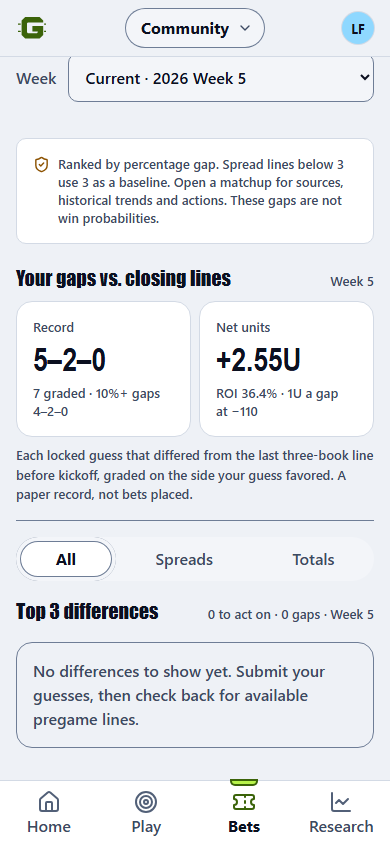
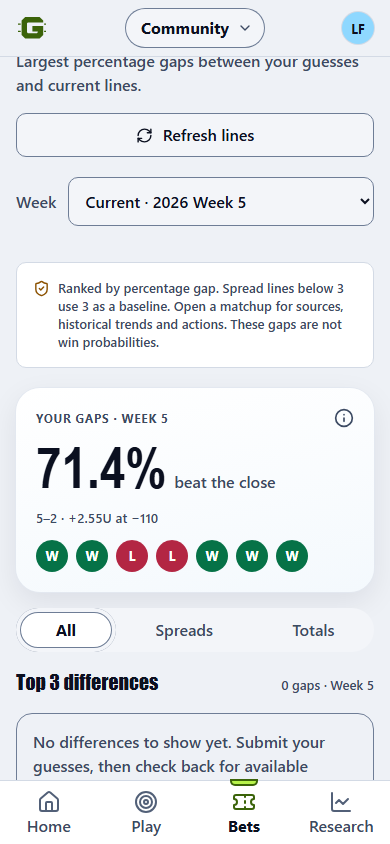
D-77: rebuild the gap card as option 1, the Hit rate hero
Sean called the first build "boring and bad" and picked option 1 from five directions on a
private canvas. The card is now the app's hero card: the share of decided gaps that beat
the closing line (W / (W + L), as D-75), the record and units at -110, and one W/L/P dot
per gap; the fine print and the 10%+ record open from its info button. The list heading
reads "Top 3 to act on" when any row can be acted on. Captures regenerated.

diff --git a/web/src/VirtualUnits.jsx b/web/src/VirtualUnits.jsx
@@ -1,5 +1,5 @@
 import React, { useCallback, useEffect, useMemo, useRef, useState } from 'react';
-import { ArrowDown, ArrowUp, Check, ChevronDown, Circle, CircleCheckBig, Clock3, Eye, Lock, Minus, Plus, RefreshCw, ShieldCheck, TrendingUp } from 'lucide-react';
+import { ArrowDown, ArrowUp, Check, ChevronDown, Circle, CircleCheckBig, Clock3, Eye, Info, Lock, Minus, Plus, RefreshCw, ShieldCheck, TrendingUp } from 'lucide-react';
 import { cloudApi, date, linesApi, signed } from './api';
 import { lockSentence } from './lineLock';
 import { buildRecommendations, gapRecord, recommendationList, recommendationMarket } from '../../shared/recommended-bets.mjs';
@@ -38,18 +38,25 @@ export const BETS_VISIBLE_NOTE = "Coming soon: everyone in the league will see e
 
 function Stat({ label, value, detail }) { return <div className="stat"><span>{label}</span><strong>{value}</strong><small>{detail}</small></div>; }
 
-// D-77 (Sean, November 3, 2026: "Your gaps' paper record"): how the gaps between your locked guesses and the closing
-// lines did this week, whether or not you bet them (shared/recommended-bets.mjs gapRecord). Your own /lines/read only.
+// D-77 (Sean, November 3, 2026: "Your gaps' paper record", then option 1, "Hit rate hero"): one hero card with the share
+// of your decided gaps that beat the closing line (W / (W + L), as D-75's win rate), the record and units, and one dot per
+// graded gap in kickoff order. The fine print opens from its info button. Your own /lines/read only (gapRecord).
+const GAP_WORDS = { win: ['W', 'Win'], loss: ['L', 'Loss'], push: ['P', 'Push'] };
 function GapRecord({ record, week }) {
-  const graded = record.wins + record.losses + record.pushes, waiting = record.notGraded.noFinal + record.notGraded.noLine;
-  const favorable = record.favorable;
-  return <section className="recommended-gap-record" aria-label="Your gaps vs. closing lines">
-    <div className="recommended-list-heading"><h3>Your gaps vs. closing lines</h3><span>Week {week}</span></div>
-    {graded ? <div className="stats-row">
-      <Stat label="Record" value={`${record.wins}–${record.losses}–${record.pushes}`} detail={`${graded} graded · 10%+ gaps ${favorable.wins}–${favorable.losses}–${favorable.pushes}`}/>
-      <Stat label="Net units" value={units(record.netUnits)} detail={`ROI ${record.roi == null ? '—' : `${Math.round(record.roi * 10) / 10}%`} · 1U a gap at −110`}/>
-    </div> : <p className="recommended-source" role="status">No finished games with a gap yet.</p>}
-    <p className="recommended-source">Each locked guess that differed from the last three-book line before kickoff, graded on the side your guess favored. A paper record, not bets placed.{waiting ? ` ${waiting} not graded yet.` : ''}</p>
+  const [about, setAbout] = useState(false);
+  const decided = record.wins + record.losses, waiting = record.notGraded.noFinal + record.notGraded.noLine, favorable = record.favorable;
+  const rate = decided ? `${(record.wins / decided * 100).toFixed(1)}%` : '—';
+  const tally = value => `${value.wins}–${value.losses}${value.pushes ? `–${value.pushes}` : ''}`;
+  return <section className="gx-card gx-card--hero recommended-gap-hero" aria-label="Your gaps vs. closing lines">
+    <div className="recommended-gap-top"><span className="gx-t-micro">Your gaps · Week {week}</span>
+      <button type="button" className="recommended-gap-about" aria-label="About your gaps" aria-expanded={about} onClick={() => setAbout(open => !open)}><Info size={20} aria-hidden="true"/></button></div>
+    {record.graded.length ? <>
+      <div className="recommended-gap-rate"><span className="gx-n-xl">{rate}</span><span className="gx-t-body">beat the close</span></div>
+      <p className="gx-t-meta">{tally(record)} · {units(record.netUnits)} at −110</p>
+      <ol className="recommended-gap-dots" aria-label="Each gap, in kickoff order">{record.graded.map(gap => <li key={`${gap.gameId}:${gap.market}`} data-outcome={gap.outcome}
+        aria-label={`${gap.gameId.replace('-', ' at ')} ${gap.market === 'spread' ? 'spread' : 'total'}: ${GAP_WORDS[gap.outcome][1]}`}><span aria-hidden="true">{GAP_WORDS[gap.outcome][0]}</span></li>)}</ol>
+    </> : <p className="gx-t-body">No finished games with a gap yet.</p>}
+    {about && <p className="gx-t-meta">Each locked guess that differed from the last three-book line before kickoff, graded on the side your guess favored: a paper record, not bets placed. 1 U a gap at −110. Gaps of 10% or more: {tally(favorable)}.{waiting ? ` ${waiting} not graded yet.` : ''}</p>}
   </section>;
 }
 function closedReviewReason(game, now, result) {
@@ -272,7 +279,7 @@ export default function VirtualUnits({ leagueId, accountId, onDirty, onSaved, on
         : recommendations.status !== 'ready' ? <div className="recommended-empty" role="status"><p>Your guesses and these lines are not available for the same week.</p><button className="secondary" onClick={refresh}>Refresh recommendations</button></div>
         : <>
           {marketControl && <div ref={marketGroup} className="recommended-market-filter">{marketControl}</div>}
-          <div className="recommended-list-heading"><h3>{expanded ? 'All differences' : 'Top 3 differences'}</h3><span>{actionableCount} to act on · {recommendations.rows.length} gaps · Week {data.week}</span></div>
+          <div className="recommended-list-heading"><h3>{expanded ? 'All differences' : actionableCount ? 'Top 3 to act on' : 'Top 3 differences'}</h3><span>{recommendations.rows.length} gaps · Week {data.week}</span></div>
           {recommendations.rows.length ? <div className="recommended-bet-list">{visibleRecommendations.map(row => <RecommendationCard key={row.key} row={row} season={data.season} week={data.week} selection={selections[row.key]} pick={picks[row.key]} now={now} add={addRecommendation} track={onTrackTicket ? trackRecommendation : undefined} choose={choose} changeUnits={changeUnits} save={save} busy={busy || loading || Boolean(uncertain)} rules={data.rules}/>)}</div>
             : <div className="recommended-empty" role="status">{market === 'all' ? <p>No differences to show yet. Submit your guesses, then check back for available pregame lines.</p> : <><p>No {market} differences to show yet.</p><button className="secondary" onClick={showAllMarkets}>View all markets</button></>}</div>}
           {recommendations.rows.length > 3 && <button className="secondary recommended-expand" aria-expanded={expanded} onClick={() => setExpanded(value => !value)}>{expanded ? <><ArrowUp size={17}/>Show top 3</> : <><ArrowDown size={17}/>Show all {recommendations.rows.length} differences</>}</button>}

diff --git a/tests/cloud-browser/recommended-bets.spec.js b/tests/cloud-browser/recommended-bets.spec.js
@@ -717,7 +717,7 @@ test('the chosen market stays while tracking a bet and returning to Recommended 
 
 // D-77 (Sean, November 3, 2026: "Your gaps' paper record"). The fixture's guesses (spread -10, -7, -5, -3; total 55, 49, 43,
 // 44.5) against closing lines of -3.5 and 44.5, with finals 27-20, 20-24, 17-13 and 21-21: spreads W L W W, totals W L W and
-// one even guess. 5-2-0 is 5 x 10/11 - 2 = +2.55U over 7 units (36.4%); the 10%+ gaps are 4-2-0.
+// one even guess. 5 of 7 decided gaps is 71.4%; 5 x 10/11 - 2 = +2.55U; the 10%+ gaps are 4-2.
 test('D-77: your gaps vs. closing lines grade finished games on the side your guess favored, follow the market filter and fit phones', async ({ page, baseURL }, testInfo) => {
   let at = Date.now();
   const world = await fixture(page, baseURL, { clock: () => at });
@@ -732,17 +732,29 @@ test('D-77: your gaps vs. closing lines grade finished games on the side your gu
     const calls = requests(page);
     await openRecommended(page);
     const card = page.getByRole('region', { name: 'Your gaps vs. closing lines', exact: true });
-    await expect(card).toContainText('5–2–0');
-    await expect(card).toContainText('7 graded · 10%+ gaps 4–2–0');
-    await expect(card).toContainText('+2.55U');
-    await expect(card).toContainText('ROI 36.4%');
-    await expect(card).toContainText('A paper record, not bets placed.');
+    // Option 1, "Hit rate hero": 5 of 7 decided gaps beat the close, one dot per gap in kickoff order.
+    await expect(card).toContainText('71.4%');
+    await expect(card).toContainText('beat the close');
+    await expect(card).toContainText('5–2 · +2.55U at −110');
+    const dots = card.getByRole('list', { name: 'Each gap, in kickoff order' }).getByRole('listitem');
+    await expect(dots).toHaveCount(7);
+    expect(await dots.evaluateAll(list => list.map(dot => dot.dataset.outcome))).toEqual(['win', 'win', 'loss', 'loss', 'win', 'win', 'win']);
+    await expect(dots.first()).toHaveAttribute('aria-label', /^\w+ at \w+ spread: Win$/);
+    // The fine print opens from the info button.
+    await expect(card).not.toContainText('a paper record, not bets placed');
+    await card.getByRole('button', { name: 'About your gaps', exact: true }).click();
+    await expect(card).toContainText('a paper record, not bets placed');
+    await expect(card).toContainText('Gaps of 10% or more: 4–2.');
+    await card.getByRole('button', { name: 'About your gaps', exact: true }).click();
+    await expect(card).not.toContainText('a paper record, not bets placed');
     await market(page, 'Spreads').click();
-    await expect(card).toContainText('3–1–0');
+    await expect(card).toContainText('75.0%');
+    await expect(card).toContainText('3–1 ·');
     await market(page, 'Totals').click();
-    await expect(card).toContainText('2–1–0');
+    await expect(card).toContainText('66.7%');
+    await expect(card).toContainText('2–1 ·');
     await market(page, 'All').click();
-    await expect(card).toContainText('5–2–0');
+    await expect(card).toContainText('71.4%');
     const reads = calls.filter(call => call.path === 'lines/read');
     expect(reads.length).toBeGreaterThan(0);
     expect(reads.every(call => call.body.season === season && call.body.week === week)).toBe(true);

diff --git a/web/src/recommendedBets.css b/web/src/recommendedBets.css
@@ -62,10 +62,16 @@
 .recommended-closed { display: flex; gap: 8px; align-items: flex-start; color: var(--pending); font-size: 16px; }
 .recommended-closed > svg { margin-top: 4px; }
 .recommended-saved-card { display: grid; gap: 8px; padding-top: 16px; border-top: 1px solid var(--border); }
-/* D-77: your gaps vs. closing lines, above the ranked list. */
-.recommended-gap-record { display: grid; gap: 8px; padding-bottom: 16px; border-bottom: 1px solid var(--border); }
-/* Both numbers are figures; the Virtual Units row's smaller last tile is for its Qualification text. */
-.gx .gx-bets .recommended-gap-record .stat:last-child > strong { font: 700 32px/32px var(--gx-font-num); font-variant-numeric: tabular-nums; }
+/* D-77, option 1 "Hit rate hero": the new app's hero card (gx-card--hero) with one big number and a dot per gap. */
+.gx .recommended-gap-hero { display: flex; flex-direction: column; gap: var(--gx-space-3); color: var(--gx-text-1); }
+.gx .recommended-gap-hero .gx-t-micro, .gx .recommended-gap-hero .gx-t-meta, .gx .recommended-gap-rate .gx-t-body { margin: 0; color: var(--gx-text-2); }
+.gx .recommended-gap-top { display: flex; align-items: center; justify-content: space-between; gap: var(--gx-space-2); }
+.gx .gx-bets .virtual-units .recommended-gap-about { display: grid; place-items: center; width: 44px; height: 44px; min-height: 44px; margin: -12px -12px -12px 0; padding: 0; border: 0; border-radius: var(--gx-radius-pill, 999px); background: none; box-shadow: none; color: var(--gx-text-2); }
+.gx .recommended-gap-rate { display: flex; flex-wrap: wrap; align-items: baseline; gap: var(--gx-space-2); }
+.gx .recommended-gap-dots { display: flex; flex-wrap: wrap; gap: var(--gx-space-2); margin: 0; padding: 0; list-style: none; }
+.gx .recommended-gap-dots li { display: grid; place-items: center; width: 32px; height: 32px; border-radius: 999px; background: var(--gx-win); color: var(--gx-on-state); font: 700 13px/1 var(--gx-font-body); }
+.gx .recommended-gap-dots li[data-outcome="loss"] { background: var(--gx-loss); }
+.gx .recommended-gap-dots li[data-outcome="push"] { background: var(--gx-pending); }
 .recommended-saved-card ul { display: grid; gap: 12px; padding: 0; margin: 0; list-style: none; }
 .recommended-saved-card li { display: grid; gap: 8px; padding: 16px; background: var(--surface); border: 1px solid var(--border); border-radius: var(--radius-card, 12px); }
 .recommended-saved-card li > p { font-size: 16px; }

diff --git a/design/recommended-gap-record-2026-11-03/README.md b/design/recommended-gap-record-2026-11-03/README.md
@@ -1,20 +1,29 @@
-# Recommended: your gaps vs. closing lines — phone mockups (D-77)
+# Recommended: your gaps vs. closing lines — phone captures (D-77)
 
-Owner: Sean Balsiger · November 3, 2026 · **For Sean's review; nothing released.**
+Owner: Sean Balsiger · November 3, 2026 · **Built to option 1, "Hit rate hero", for Sean's OK; nothing released.**
 
-These are screenshots of the real app: Bets › Your guess vs. market, at 390 × 844 and 320 × 844. They come from the
+Sean called the first build "boring and bad". From five directions on the private canvas
+[GTL Recommended Gap Card Options](https://claude.ai/artifact/2Dr55M7ZxHCLNKkd52gzkz), he picked **1 · Hit rate hero**.
+
+These are screenshots of the real app (Bets › Your guess vs. market), at 390 × 844 and 320 × 844. They come from the
 browser tests in `tests/cloud-browser/recommended-bets.spec.js`, run against the real handler and migrations on local
 PGlite. All accounts, games and lines are fixtures. The tests block web fonts, so the text is in a fallback system font.
 
 | Screenshot | What it shows |
 | --- | --- |
-| [gap-record-dark-390.png](gap-record-dark-390.png) · [light](gap-record-light-390.png) | A finished week. Four games, spread and total guesses: 5–2–0 and +2.55U (ROI 36.4%) at −110; the 10%+ gaps went 4–2–0. |
-| [gap-record-dark-320.png](gap-record-dark-320.png) · [light](gap-record-light-320.png) | The same card at the narrowest phone width. |
-| [top3-midweek-dark-390.png](top3-midweek-dark-390.png) | Mid-week, before any game is final: "No finished games with a gap yet", 8 not graded, and the list heading "7 to act on · 7 gaps". (A full-page capture: the app's top bar overlaps in the middle; that is the capture, not the app.) |
+| [gap-record-dark-390.png](gap-record-dark-390.png) · [light](gap-record-light-390.png) | A finished week: **71.4% beat the close**, "5–2 · +2.55U at −110" and one W/L dot per gap in kickoff order. |
+| [gap-record-dark-320.png](gap-record-dark-320.png) · [light](gap-record-light-320.png) | The same hero at the narrowest phone width; the dots wrap. |
+| [top3-midweek-dark-390.png](top3-midweek-dark-390.png) | Mid-week, before any game is final: "No finished games with a gap yet", then "Top 3 to act on · 7 gaps". (A full-page capture: the app's top bar overlaps in the middle; that is the capture, not the app.) |
 
-## What it counts
+## The card
 
-Each locked guess that differed from the last three-book line before kickoff is graded on the side your guess favored,
-against the final. Each graded gap is 1 unit at −110. It's a paper record of your gaps, not bets you placed. Games
-without a final or a closing line, even guesses, drafts and sit-outs are left out; the not-yet-graded count is shown. The
-card follows All / Spreads / Totals. See [D-77](../../docs/DECISIONS.md).
+- **The hero:** the app's hero card (`gx-card--hero`: deep blue in Dark, a white report card in Light). The big
+  number is the share of your decided gaps that beat the closing line, W / (W + L) to one decimal, the same rule as
+  D-75's win rate. Below it, the record and units at −110, then a dot per graded gap: W, L or P, each with its game and
+  market for screen readers.
+- **Behind ⓘ:** what counts (a paper record, not bets placed), the 1 U at −110 basis, the 10%+ gaps' record and how many
+  are not graded yet.
+- **Follows the filter:** All / Spreads / Totals. The list heading reads "Top 3 to act on" whenever any row can be acted
+  on.
+
+See [D-77](../../docs/DECISIONS.md).

diff --git a/docs/DECISIONS.md b/docs/DECISIONS.md
@@ -4,9 +4,13 @@
 
 Sean picked "Recommendation card" from board item 10 (the two ideas kept from D-51's closed PR #140), then "Your gaps'
 paper record" when asked what the card should count. Nothing records that a bet came from Recommended, so the card grades
-the gaps themselves rather than bets placed. [Mockups](../design/recommended-gap-record-2026-11-03/README.md).
+the gaps themselves rather than bets placed. The first build was "boring and bad". From five directions on the private
+canvas [GTL Recommended Gap Card Options](https://claude.ai/artifact/2Dr55M7ZxHCLNKkd52gzkz) he picked **1 · Hit rate
+hero**. [Captures](../design/recommended-gap-record-2026-11-03/README.md).
 
-- **Your gaps vs. closing lines:** a weekly card at the top of Bets › Your guess vs. market.
+- **Your gaps vs. closing lines:** a weekly hero card at the top of Bets › Your guess vs. market.
+  - **The look:** one big number, the share of decided gaps that beat the close (W / (W + L), as D-75's win rate). Under
+    it come the record and units at −110 and one W/L/P dot per gap. The fine print opens from ⓘ.
   - **What counts:** every locked guess that differed from the closing consensus. That is the newest three-book line
     before kickoff, as `/lines/read` reports it for a started game.
   - **Grading:** the side your guess favored (the side Recommended suggests) against the final score: W, L or P.

diff --git a/docs/COMPLETION_REGISTER.md b/docs/COMPLETION_REGISTER.md
@@ -2,9 +2,10 @@
 
 ## Recommended: your gaps vs. closing lines, D-77 — November 3, 2026
 
-Board item 10. Sean chose "Recommendation card", then "Your gaps' paper record". Bets › Your guess vs. market now opens
-with a weekly record of your gaps against the closing three-book lines: W–L–P, net units at a standard −110, ROI and the
-10%+ gaps' record. Rows you can still act on rank first within D-54's order. It is frontend only (`shared/recommended-bets.mjs`,
+Board item 10. Sean chose "Recommendation card", then "Your gaps' paper record". After calling the first build "boring and
+bad", he picked option 1, "Hit rate hero", from five on a private canvas. Bets › Your guess vs. market now opens with one
+hero card: the share of your gaps that beat the closing three-book line, the record and units at −110, and a dot per
+gap. The fine print and the 10%+ record are behind ⓘ. Rows you can still act on rank first within D-54's order. It is frontend only (`shared/recommended-bets.mjs`,
 `web/src/VirtualUnits.jsx`) and reads your own `/lines/read`. Local checks pass: unit tests of the grading, units and
 exclusions, and a browser test with four finished games (phone rules and axe in both themes). **Not merged or released;
 waiting on Sean's OK of the [mockups](../design/recommended-gap-record-2026-11-03/README.md).**
